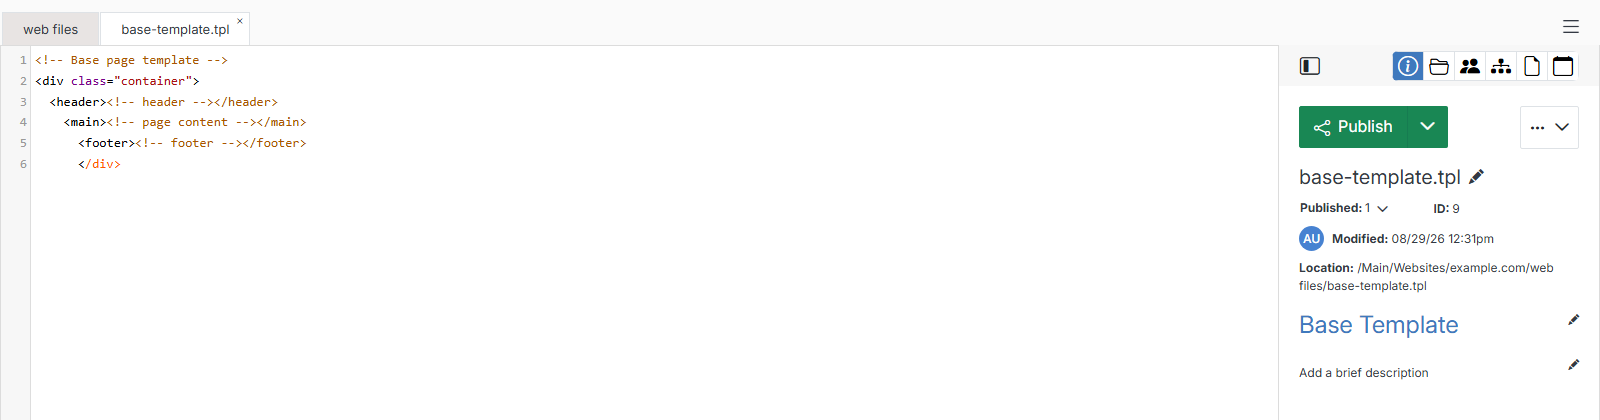
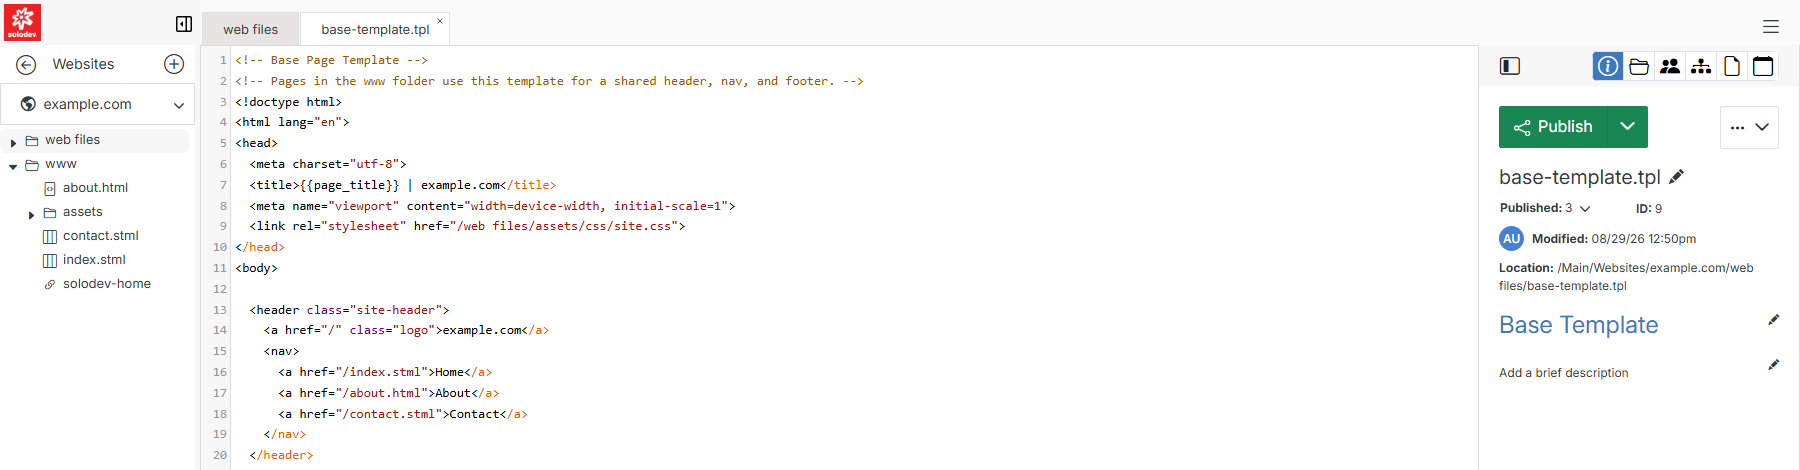
docs: rebuild base-template.tpl as a real page template, expand Manage Files
- base-template.tpl is now a complete HTML template (header/nav/hero/
  main with a dynamicDiv/footer) using example.com branding, instead
  of a bare comment-stub -- this is the file example readers see, and
  sets up a real template to build a page from later.
- Recaptured Manage Files' hero screenshot against the new content.
- Verified all three real action groupings on an open file live
  (previously only the '...' dropdown had been checked): the
  Publish/Stage/Draft status button, the '...' actions menu
  (Update/Copy/Move/Delete/History), and the icon row above them
  (Info/Replace File/Tasks/Includes/Attachments/Events).
- Split Manage Files from one flat table into a parent overview (one
  table per grouping, matching the real UI) plus a dedicated child
  page per action, mirroring the Manage Folder pattern -- each with
  its own live screenshot and field table instead of guessed prose.
- Per-page verification: real slugs checked via curl+<title>, image
  Content-Type checked to rule out the dev-server always-200 gotcha.

Per user direction, these file-level actions stay under Websites'
Manage Files (not Documents) -- Documents gets its own shorter
version separately.

diff --git a/src/Workspace/Websites/Manage Files/index.md b/src/Workspace/Websites/Manage Files/index.md
@@ -4,54 +4,35 @@ Under **web files**, you can update folders or open a specific file to edit it w
 
 <p><img src="../../../images/websites/code-file.png" alt="A template file open in the code editor"></p>
 
-**Name** | **Description**
-:--- | ---
-Publish | Push the file's code or content to live production.
-Draft | Save a draft version of the file's code or content.
-Stage | Set up a staged version of the file for review as part of your workflow.
-Add to Group | Assign the file to a [file group](/engage/file-groups/).
-History | Review previous versions of the file and restore a saved one.
-Copy | Copy the file for editing or reuse elsewhere in your website.
-Move | Relocate the file based on your taxonomy.
-Delete | Delete the file permanently from your website.
-Attachments | Manage files attached to this asset.
-Events | View activity/events recorded against this asset.
+Once a file is open, its actions are split across three groups: the workflow-status button, the **...** actions menu, and an icon row above them both.
 
-## Other Actions
+<p><img src="../../../images/websites/files/actions-menu.png" alt="The three action groups on an open file: icon row, Publish button, and the ... actions menu" style="width: 45%;"></p>
 
-Files also have the option to upload a new version, create or manage tasks, expand your screen, or collapse the right menu.
+## Publish, Stage & Draft
 
 **Name** | **Description**
 :--- | ---
-Includes | Review where the file is being used across your website.
-Upload | Overwrite the current file by uploading a new one.
-Tasks | Collaborate with team members by adding or completing tasks.
-Expand | View the file in a full-width screen, removing all actions and menus.
-Collapse Menu | Hide the right-hand menu.
+[Publish, Stage & Draft](/workspace/websites/manage-files/publish-stage-draft/) | Push the file's code or content to live production, stage it for review, or save it as a draft.
 
-### Includes
+## Actions menu
 
-Quickly identify where your file is being used by clicking the includes icon at the top of the file. You can also jump to the page your file is included on by clicking its name.
-
-### Upload
-
-Click the upload icon in the upper-right corner to overwrite your current file by dragging and dropping a new one from your browser.
+Click the **...** button next to **Publish** for file management actions.
 
 **Name** | **Description**
 :--- | ---
-Upload | Publish your uploaded file live.
-Upload + Stage | Send the uploaded file into a staged status.
-Upload + Save | Save the uploaded file without publishing it live.
+[Update File](/workspace/websites/manage-files/update-file/) | Change the file's title, description, and publish/expire scheduling.
+[Copy File](/workspace/websites/manage-files/copy-file/) | Copy the file for editing or reuse elsewhere in your website.
+[Move File](/workspace/websites/manage-files/move-file/) | Relocate the file based on your taxonomy.
+[Delete File](/workspace/websites/manage-files/delete-file/) | Permanently delete the file from your website.
+[File History](/workspace/websites/manage-files/file-history/) | Review previous versions of the file, compare them, and restore a saved one.
 
-### Tasks
-
-Collaborate with team members by creating, assigning, and viewing tasks, sending messages, and managing task status and details.
-
-## Advanced
-
-Schedule a publish date and expire date for the file.
+## Icon row
 
 **Name** | **Description**
 :--- | ---
-Publish Date | Set an optional scheduled date to automatically publish the file.
-Expire Date | Choose when the file should expire: never, 1 day, 10 days, 30 days, 90 days, or 1 year.
+Info | The default right-hand panel: name, published status, ID, modified date, location, and editable title/description.
+[Replace File](/workspace/websites/manage-files/replace-file/) | Overwrite the current file by uploading a new one.
+[Tasks](/workspace/websites/manage-files/tasks/) | Track a to-do status for the file and leave comments for your team.
+[Includes](/workspace/websites/manage-files/includes/) | Review where the file is being used across your website.
+[Attachments](/workspace/websites/manage-files/attachments/) | Manage files attached to this asset.
+[Events](/workspace/websites/manage-files/events/) | Map a calendar entry to this file.

diff --git a/src/Workspace/Websites/Manage Files/Update File/index.md b/src/Workspace/Websites/Manage Files/Update File/index.md
@@ -1,0 +1,18 @@
+# Update File
+
+Change a file's name, description, and publish/expire scheduling without editing its content. From an open file, click the **...** menu next to **Publish**, then click **Update**.
+
+<p><img src="../../../../images/websites/files/update-file.png" alt="Update panel for a file" style="width: 45%;"></p>
+
+**Name** | **Description**
+:--- | ---
+Title | Update the file's display title.
+Description | Add or update a brief description of the file.
+Publish Date | Schedule when the file should automatically publish.
+Expire Date | Choose when the file should expire: never, 1 day, 10 days, 30 days, 90 days, or 1 year.
+[Advanced](/workspace/websites/manage-files/update-file/#advanced) | Expand for additional scheduling and behavior options.
+Submit | Once you've made your changes, click **Submit** to apply them.
+
+## Advanced
+
+Click **Advanced** to expand additional options for scheduling exactly when a file publishes or expires.

diff --git a/src/Workspace/Websites/Manage Files/File History/index.md b/src/Workspace/Websites/Manage Files/File History/index.md
@@ -1,0 +1,15 @@
+# File History
+
+Review previous saved versions of a file's code or content, compare any two versions, and restore an older one. From an open file, click the **...** menu next to **Publish**, then click **History**.
+
+<p><img src="../../../../images/websites/files/history-file.png" alt="History panel showing version list and a diff view" style="width: 80%;"></p>
+
+**Name** | **Description**
+:--- | ---
+Version | Each saved version of the file, newest first. Click the filename to open that version.
+Diff | Click **Compare** to view a side-by-side diff against the version above it.
+Created On | The date and time that version was saved.
+By | The user who saved that version.
+Save as current version | Restore the file to that version.
+
+Selecting **Compare** loads a side-by-side diff at the bottom of the panel, with the changed lines and characters highlighted in both columns so you can see exactly what changed between versions.

diff --git a/src/Workspace/Websites/Manage Files/Publish, Stage & Draft/index.md b/src/Workspace/Websites/Manage Files/Publish, Stage & Draft/index.md
@@ -1,0 +1,11 @@
+# Publish, Stage & Draft
+
+Every file has one workflow-status button in the top right of the code editor. Click the caret next to it to switch which status your changes are saved as.
+
+<p><img src="../../../../images/websites/files/publish-stage-draft.png" alt="Publish button with Stage and Draft options" style="width: 40%;"></p>
+
+**Name** | **Description**
+:--- | ---
+Publish | Push the file's current code or content to live production. This is the default action.
+Stage | Save the file to a staged version for review as part of your workflow, without pushing it live.
+Draft | Save a draft version of the file's code or content, visible only to your team.

diff --git a/src/Workspace/Websites/Manage Files/Tasks/index.md b/src/Workspace/Websites/Manage Files/Tasks/index.md
@@ -1,0 +1,12 @@
+# Tasks
+
+Track a to-do status for a file and leave comments for your team. From an open file, click the people icon in the icon row above **Publish**.
+
+<p><img src="../../../../images/websites/files/tasks-file.png" alt="Tasks panel for a file, showing status and activity" style="width: 40%;"></p>
+
+**Name** | **Description**
+:--- | ---
+Status | Click the status button to toggle the file's task status (e.g. between open and **Completed**).
++ Add task | Create a new task for this file.
+Activity | A running log of who created and last updated the file, and when.
+Add a comment | Leave a comment visible to teammates with access to this file.

diff --git a/src/Workspace/Websites/Manage Files/Delete File/index.md b/src/Workspace/Websites/Manage Files/Delete File/index.md
@@ -1,0 +1,14 @@
+# Delete File
+
+Permanently remove a file from your website. From an open file, click the **...** menu next to **Publish**, then click **Delete**.
+
+<p><img src="../../../../images/websites/files/delete-file.png" alt="Delete confirmation for a file" style="width: 45%;"></p>
+
+**Name** | **Description**
+:--- | ---
+Name | Confirm which file(s) are checked for deletion.
+Submit | Click **Submit** to permanently delete the file. This cannot be undone.
+
+!!!danger Warning:
+Deleting a file is permanent. If the file is referenced by a template or included on a page, that reference will break.
+!!!

diff --git a/src/Workspace/Websites/Manage Files/Move File/index.md b/src/Workspace/Websites/Manage Files/Move File/index.md
@@ -1,0 +1,11 @@
+# Move File
+
+Relocate a file to a different folder based on your taxonomy. From an open file, click the **...** menu next to **Publish**, then click **Move**.
+
+<p><img src="../../../../images/websites/files/move-file.png" alt="Move panel for a file" style="width: 45%;"></p>
+
+**Name** | **Description**
+:--- | ---
+Move from File | Read-only: the folder the file currently lives in.
+To File | Choose a destination folder from the tree. By default the file is saved into its current folder if you don't pick a new one.
+Submit | Click **Submit** to move the file.

diff --git a/src/Workspace/Websites/Manage Files/Copy File/index.md b/src/Workspace/Websites/Manage Files/Copy File/index.md
@@ -1,0 +1,11 @@
+# Copy File
+
+Duplicate a file, optionally into a different folder. From an open file, click the **...** menu next to **Publish**, then click **Copy**.
+
+<p><img src="../../../../images/websites/files/copy-file.png" alt="Copy panel for a file" style="width: 45%;"></p>
+
+**Name** | **Description**
+:--- | ---
+Copy from File | Read-only: the folder the file currently lives in.
+To File | Choose a destination folder from the tree. By default the copy is saved into the same folder as the original.
+Submit | Click **Submit** to create the copy.

diff --git a/src/Workspace/Websites/Manage Files/Attachments/index.md b/src/Workspace/Websites/Manage Files/Attachments/index.md
@@ -1,0 +1,10 @@
+# Attachments
+
+Attach supporting files to a file, like a source document or a reference image. From an open file, click the file icon in the icon row above **Publish**.
+
+<p><img src="../../../../images/websites/files/attachments-file.png" alt="Attachments panel for a file" style="width: 40%;"></p>
+
+**Name** | **Description**
+:--- | ---
+Name / Modified | Existing attachments, listed by name and last-modified date.
+Select a file | Browse your computer for a file to attach, then it appears in the table above.

diff --git a/src/Workspace/Websites/Manage Files/Events/index.md b/src/Workspace/Websites/Manage Files/Events/index.md
@@ -1,0 +1,10 @@
+# Events
+
+Map a [Calendar](/workspace/modules/) entry to a file so the two stay linked. From an open file, click the calendar icon in the icon row above **Publish**.
+
+<p><img src="../../../../images/websites/files/events-file.png" alt="Events panel for a file" style="width: 40%;"></p>
+
+**Name** | **Description**
+:--- | ---
+Event Title / Module / Start Time | Calendar entries currently mapped to this file.
+Select a calendar entry | Browse for a calendar entry to map to this file.

diff --git a/src/Workspace/Websites/Manage Files/Includes/index.md b/src/Workspace/Websites/Manage Files/Includes/index.md
@@ -1,0 +1,7 @@
+# Includes
+
+Quickly check where a file is being used across your website before you edit or delete it. From an open file, click the tree icon in the icon row above **Publish**.
+
+<p><img src="../../../../images/websites/files/includes-file.png" alt="Includes panel for a file" style="width: 40%;"></p>
+
+Solodev lists every page that includes the file, if any. Click a page's name to jump to it. If nothing references the file yet, you'll see **No pages found that include this file**.

diff --git a/src/Workspace/Websites/Manage Files/Replace File/index.md b/src/Workspace/Websites/Manage Files/Replace File/index.md
@@ -1,0 +1,7 @@
+# Replace File
+
+Overwrite a file's content by uploading a new one from your computer, without changing its name or location. From an open file, click the folder icon in the icon row above **Publish**.
+
+<p><img src="../../../../images/websites/files/upload-file.png" alt="Upload panel to replace a file" style="width: 40%;"></p>
+
+Click **Replace This File** and choose a file from your computer to upload in place of the current content.
